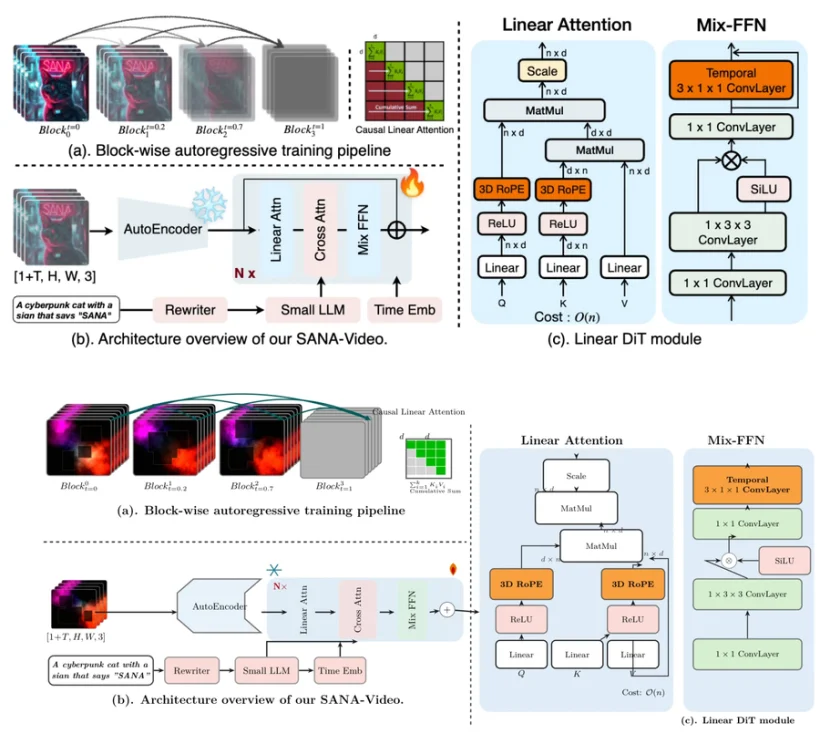
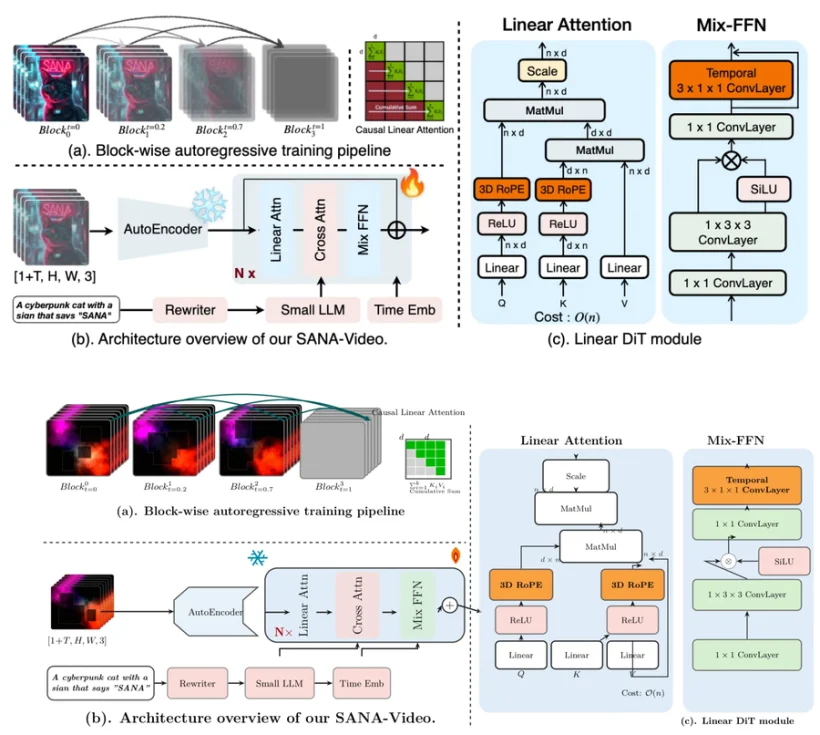
improve(replicas): 第二十六轮 —— 05 (b) 面板按原图重做
对照原图 (b) 的六个特征逐项修正：
1. N× 框加高（3.05-5.95）并加深色描边（black!75 / 1.2pt / 圆角 12pt）—— 原图框有实线边框
2. 三列竖排标签改 \large（原图这是最醒目的元素，之前是 \small）
3. ⊕ 改为大圆（0.52cm / 1.1pt 边）并移入框内右侧
4. 雪花图标加大（6 辐 + 次级短辐 + 中心圆点），火焰改三层（橙/红/黄芯）
5. Rewriter/Small LLM/Time Emb 框加大到 2.05/2.35/1.95cm，字号 \small
6. 补上 Time Emb → Mix FFN 的第二条上行箭头（之前只有 Small LLM 一条）
7. 输入叠层改 6 层
墨迹 0.448 → 0.465，AR 2.30 精确命中

diff --git a/tools/figlab/reps_tikz.py b/tools/figlab/reps_tikz.py
@@ -116,75 +116,81 @@ def fig05() -> str:
 % ================= (b) 整体架构 =================
 % 输入：叠层帧
 \begin{scope}[shift={(0.25,3.55)}]
-  \foreach \k in {3,2,1,0}{
-    \begin{scope}[shift={(\k*0.12,\k*0.12)}]
-      \clip[rounded corners=2pt] (0,0) rectangle (1.55,1.55);
+  \foreach \k in {5,4,3,2,1,0}{
+    \begin{scope}[shift={(\k*0.09,\k*0.09)}]
+      \clip[rounded corners=2pt] (0,0) rectangle (1.70,1.70);
       \node[anchor=south west, inner sep=0pt] at (0,0)
-        {\includegraphics[width=1.55cm,height=1.55cm]{input.png}};
-      \draw[black!50, line width=1.0pt, rounded corners=2pt] (0,0) rectangle (1.55,1.55);
+        {\includegraphics[width=1.70cm,height=1.70cm]{input.png}};
+      \draw[black!60, line width=0.8pt, rounded corners=2pt] (0,0) rectangle (1.70,1.70);
     \end{scope}
   }
 \end{scope}
-\node[font=\small] at (1.10,3.22) {$[1\!+\!T, H, W, 3]$};
+\node[font=\small] at (1.15,3.10) {$[1\!+\!T, H, W, 3]$};
 
-% AutoEncoder：左窄右宽梯形
-\begin{scope}[shift={(4.55,3.40)}]
-  \fill[fxblue2] (0.00,0.55) -- (0.55,0.00) -- (2.85,0.00) -- (2.30,0.55) -- (2.30,1.55) -- (2.85,2.10) -- (0.55,2.10) -- (0.00,1.55) -- cycle;
-  \draw[black!55, line width=1.2pt] (0.00,0.55) -- (0.55,0.00) -- (2.85,0.00) -- (2.30,0.55) -- (2.30,1.55) -- (2.85,2.10) -- (0.55,2.10) -- (0.00,1.55) -- cycle;
-  \node[font=\small] at (1.45,1.05) {AutoEncoder};
+% AutoEncoder：左窄右宽八边形梯形
+\begin{scope}[shift={(4.45,3.30)}]
+  \fill[fxblue2] (0.00,0.50) -- (0.50,0.00) -- (2.85,0.00) -- (2.35,0.50) -- (2.35,1.40) -- (2.85,1.90) -- (0.50,1.90) -- (0.00,1.40) -- cycle;
+  \draw[black!70, line width=1.1pt] (0.00,0.50) -- (0.50,0.00) -- (2.85,0.00) -- (2.35,0.50) -- (2.35,1.40) -- (2.85,1.90) -- (0.50,1.90) -- (0.00,1.40) -- cycle;
+  \node[font=\small] at (1.42,0.95) {AutoEncoder};
 \end{scope}
-\draw[arr, line width=1.2pt] (1.75,4.20) -- (4.55,4.20);
+\draw[arr, line width=1.2pt] (1.95,4.25) -- (4.45,4.25);
 
-% N x 大框（含内部 ⊕）
-\fill[fxblue, opacity=.60, rounded corners=10pt] (7.60,3.05) rectangle (14.30,5.55);
-\node[font=\small\bfseries, text=red!70!black, anchor=north west] at (7.70,5.50) {$\mathbf{N\times}$};
+% N x 大框：加高、深色描边
+\fill[fxblue, opacity=.62, rounded corners=12pt] (7.55,3.05) rectangle (14.35,5.95);
+\draw[black!75, line width=1.2pt, rounded corners=12pt] (7.55,3.05) rectangle (14.35,5.95);
+\node[font=\large\bfseries, text=red!70!black, anchor=south west] at (7.75,3.12) {$\mathbf{N\times}$};
 
-% 三列背景带
-\fill[fxpnk, opacity=.70, rounded corners=4pt] (10.05,3.15) rectangle (11.35,5.45);
-\fill[fxgrn, opacity=.55, rounded corners=4pt] (12.05,3.15) rectangle (13.05,5.45);
+% 三列背景带（更明显）
+\fill[fxpnk, opacity=.85, rounded corners=5pt] (9.95,3.20) rectangle (11.45,5.80);
+\fill[fxgrn, opacity=.70, rounded corners=5pt] (12.15,3.20) rectangle (13.35,5.80);
 
-\node[font=\small, rotate=90] at (8.85,4.30) {Linear Attn};
-\node[font=\small, rotate=90] at (10.70,4.30) {Cross Attn};
-\node[font=\small, rotate=90] at (12.55,4.30) {Mix FFN};
-\node[circle, draw=black!85, fill=white, inner sep=1.8pt, font=\small] (plus) at (13.75,4.30) {$+$};
+% 大号竖排标签（原图里这是最醒目的元素）
+\node[font=\large, rotate=90] at (8.85,4.50) {Linear Attn};
+\node[font=\large, rotate=90] at (10.70,4.50) {Cross Attn};
+\node[font=\large, rotate=90] at (12.75,4.50) {Mix FFN};
 
-\draw[arr, line width=1.2pt] (7.42,4.20) -- (8.30,4.20);
-\draw[arr, line width=1.2pt] (9.25,4.20) -- (9.95,4.20);
-\draw[arr, line width=1.2pt] (11.45,4.20) -- (11.95,4.20);
-\draw[arr, line width=1.2pt] (13.15,4.20) -- (plus);
-\draw[arr, line width=1.2pt] (plus) -- (14.85,4.20);
+% 大 ⊕ 在框内右侧
+\node[circle, draw=black!85, line width=1.1pt, fill=white, minimum size=0.52cm,
+      inner sep=0pt, font=\large] (plus) at (13.85,4.50) {$+$};
 
-% 彩色图标：雪花（左）/ 火焰（右）
-\begin{scope}[shift={(7.85,5.85)}]
+\draw[arr, line width=1.2pt] (7.55,4.22) -- (8.40,4.22);
+\draw[arr, line width=1.2pt] (9.30,4.22) -- (9.85,4.22);
+\draw[arr, line width=1.2pt] (11.55,4.22) -- (12.05,4.22);
+\draw[arr, line width=1.2pt] (13.45,4.22) -- (plus.west);
+\draw[arr, line width=1.2pt] (plus.east) -- (14.95,4.22);
+
+% 彩色图标：雪花（大）/ 火焰（大），置于框外上方
+\begin{scope}[shift={(7.30,6.35)}]
   \foreach \a in {0,60,120,180,240,300}{
-    \draw[cyan!65!black, line width=1.1pt] (0,0) -- (\a:0.26);
+    \draw[cyan!75!black, line width=1.6pt] (0,0) -- (\a:0.34);
+    \draw[cyan!75!black, line width=1.2pt] (\a:0.18) -- (\a+30:0.26);
   }
-  \fill[cyan!65!black] (0,0) circle (0.045);
+  \fill[cyan!75!black] (0,0) circle (0.06);
 \end{scope}
-\begin{scope}[shift={(13.95,5.85)}]
-  \fill[orange!90!black] (0,-0.22) .. controls (-0.20,0.05) and (-0.10,0.18) .. (0,0.28)
-                        .. controls (0.10,0.18) and (0.20,0.05) .. (0,-0.22) -- cycle;
-  \fill[red!80!black] (0,-0.16) .. controls (-0.10,0.00) and (-0.05,0.08) .. (0,0.13)
-                      .. controls (0.05,0.08) and (0.10,0.00) .. (0,-0.16) -- cycle;
+\begin{scope}[shift={(14.05,6.40)}]
+  \fill[orange!95!black] (0,-0.30) .. controls (-0.26,0.06) and (-0.13,0.24) .. (0,0.38)
+                        .. controls (0.13,0.24) and (0.26,0.06) .. (0,-0.30) -- cycle;
+  \fill[red!85!black] (0,-0.22) .. controls (-0.13,0.00) and (-0.07,0.11) .. (0,0.18)
+                      .. controls (0.07,0.11) and (0.13,0.00) .. (0,-0.22) -- cycle;
+  \fill[yellow!85!white] (0,-0.14) .. controls (-0.06,0.00) and (-0.03,0.05) .. (0,0.09)
+                        .. controls (0.03,0.05) and (0.06,0.00) .. (0,-0.14) -- cycle;
 \end{scope}
 
-% 文本分支
-\node[draw=black!75, line width=1.2pt, rounded corners=5pt, fill=white, minimum width=3.4cm,
-      minimum height=1.00cm, font=\footnotesize, align=left, inner sep=3pt] (capbox)
-  at (1.95,1.92) {\textbf{\textit{A cyberpunk cat with a}}\\[1pt]\textbf{\textit{sian that says "SANA"}}};
-\node[pnk2, line width=1.2pt, minimum width=1.85cm, minimum height=0.90cm, font=\small] (rw) at (5.05,1.92) {Rewriter};
-\node[pnk2, line width=1.2pt, minimum width=2.15cm, minimum height=0.90cm, font=\small] (llm) at (7.60,1.92) {Small LLM};
-\node[pnk2, line width=1.2pt, minimum width=1.75cm, minimum height=0.90cm, font=\small] (te) at (10.10,1.92) {Time Emb};
+% 文本分支（框更大）
+\node[draw=black!75, line width=1.1pt, rounded corners=6pt, fill=white, minimum width=3.6cm,
+      minimum height=1.15cm, font=\footnotesize, align=left, inner sep=4pt] (capbox)
+  at (1.95,1.45) {\textbf{\textit{A cyberpunk cat with a}}\\[1pt]\textbf{\textit{sian that says "SANA"}}};
+\node[pnk2, line width=1.1pt, minimum width=2.05cm, minimum height=1.05cm, font=\small] (rw) at (5.25,1.45) {Rewriter};
+\node[pnk2, line width=1.1pt, minimum width=2.35cm, minimum height=1.05cm, font=\small] (llm) at (8.05,1.45) {Small LLM};
+\node[pnk2, line width=1.1pt, minimum width=1.95cm, minimum height=1.05cm, font=\small] (te) at (10.85,1.45) {Time Emb};
 \draw[arr, line width=1.2pt] (capbox.east) -- (rw.west);
 \draw[arr, line width=1.2pt] (rw.east) -- (llm.west);
 \draw[arr, line width=1.2pt] (llm.east) -- (te.west);
-\draw[arr, line width=1.2pt] (llm.north) |- (10.70,3.05);
-\draw[arr, line width=1.2pt] (te.north) -- (10.10,3.05);
+% 两条上箭头分别指向 Cross Attn 与 Mix FFN 底部
+\draw[arr, line width=1.2pt] (8.05,2.50) -- (8.05,2.80) -- (10.70,2.80) -- (10.70,3.05);
+\draw[arr, line width=1.2pt] (10.85,2.50) -- (10.85,2.80) -- (12.75,2.80) -- (12.75,3.05);
 
-\node[font=\large\bfseries] at (7.3,0.75) {(b). Architecture overview of our SANA-Video.};
-
-% 上/下分隔线
-\draw[dashed, line width=1.2pt, black!80] (0.0,6.95) -- (14.40,6.95);
+\node[font=\Large\bfseries] at (7.4,0.05) {(b). Architecture overview of our SANA-Video.};
 
 % ================= (c) Linear DiT module =================
 % ---- 面板标题（在框上方）
